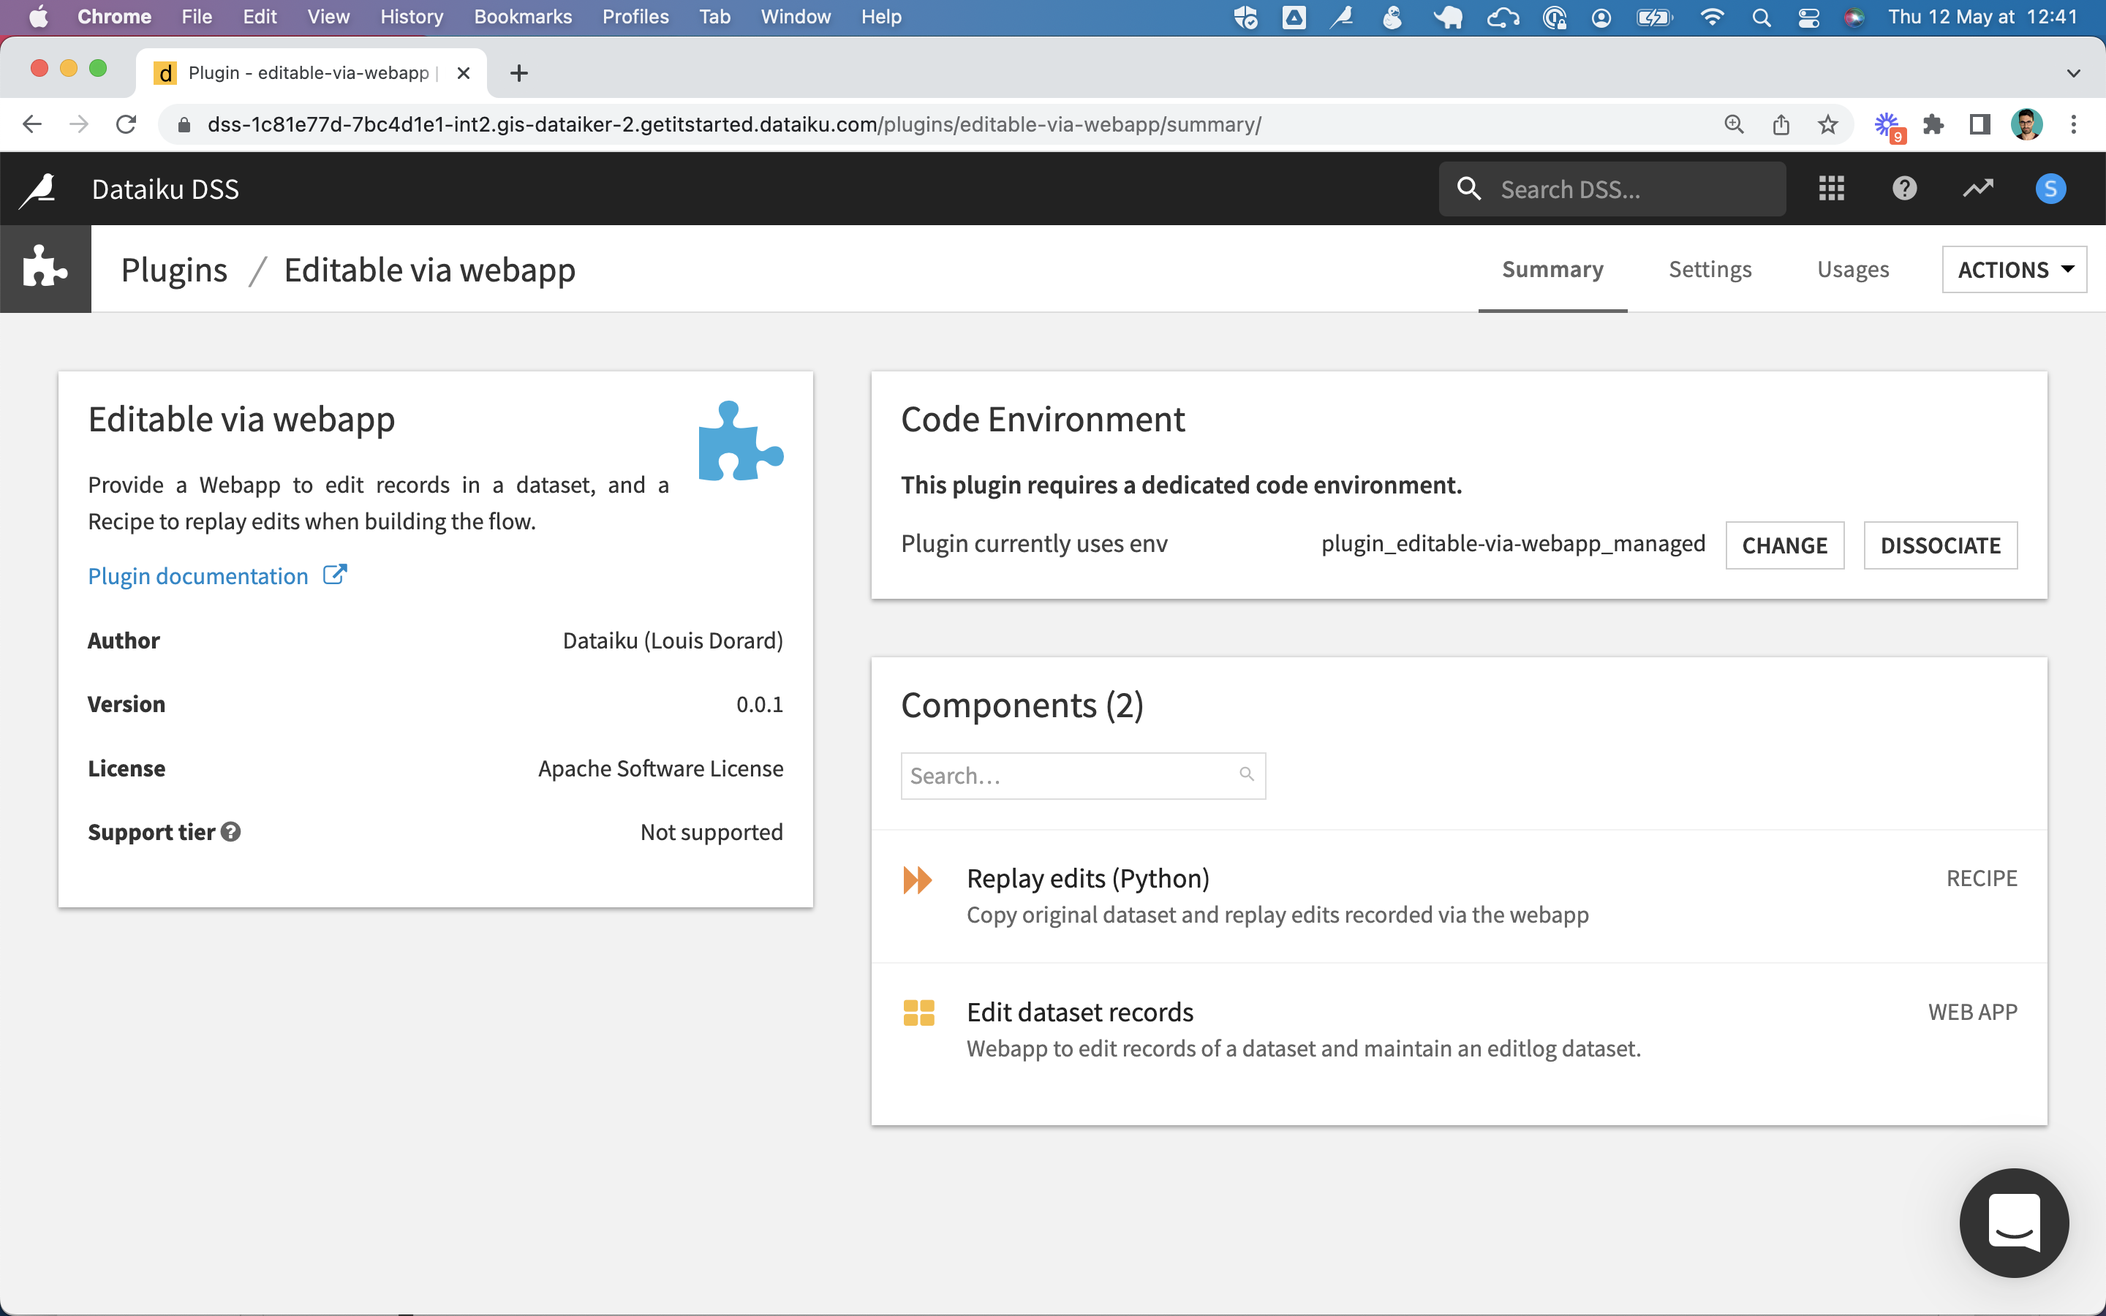
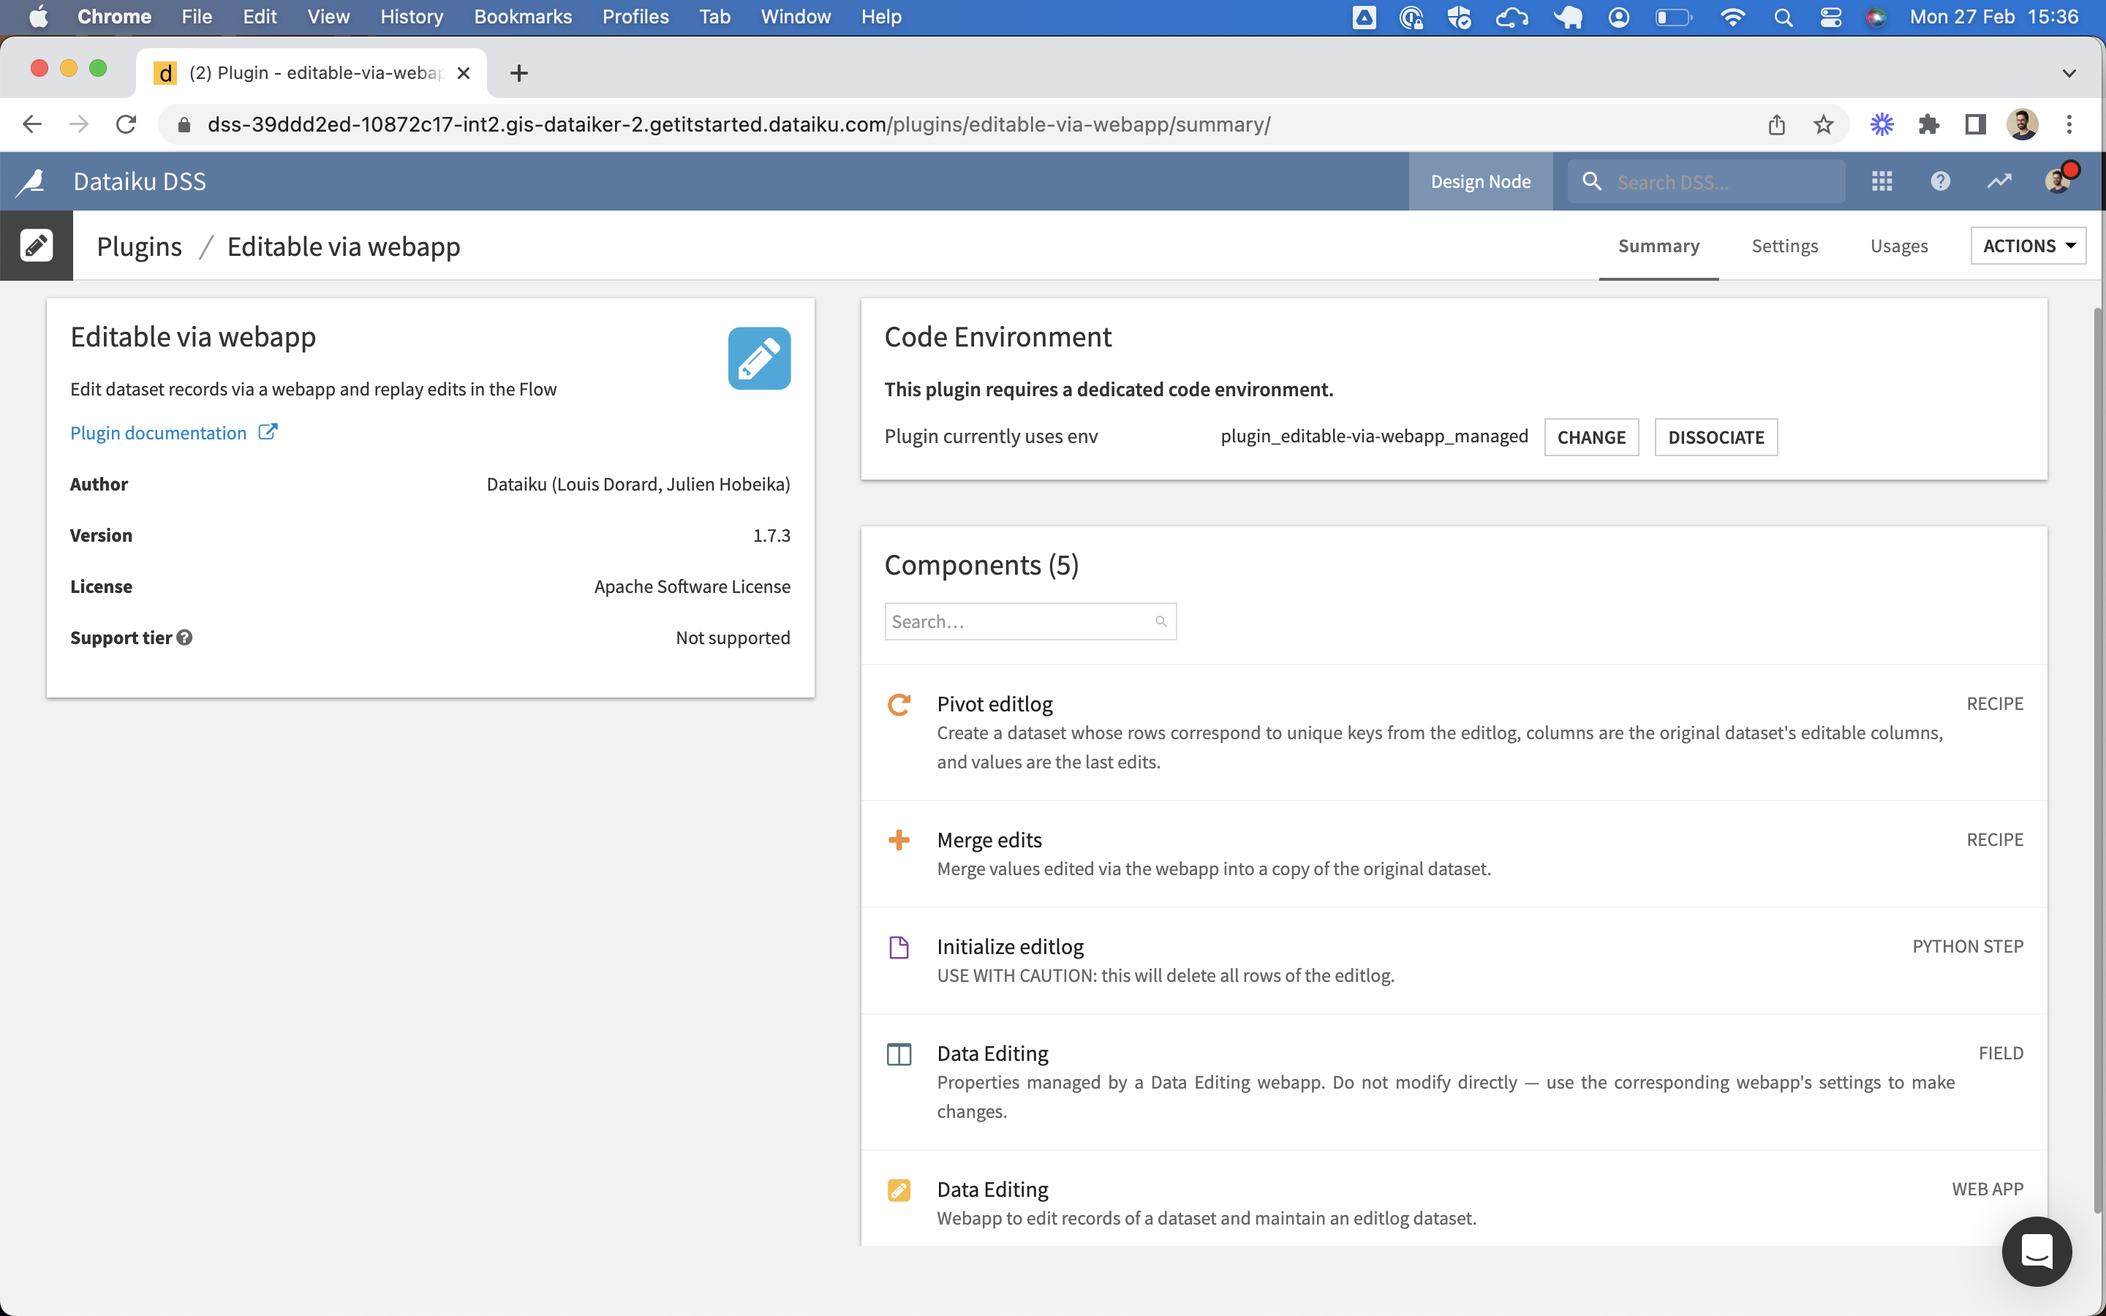
Improve documentation

diff --git a/docs/get-started.md b/docs/get-started.md
@@ -1,46 +1,26 @@
-# Getting started
+# Getting started | Plugin: Data Editing | Dataiku
 
-If you haven't, [install the _Editable via Webapp_ plugin](install-plugin) first.
+If you haven't, [install the plugin](install-plugin) first.
 
-## Create the webapp
+## Creating a Data Editing webapp
 
-* As a preliminary step, please review the schema of the dataset to edit.
+* Once you've identified the dataset to edit via a webapp, please review its schema as a first step.
   * The webapp uses column meanings to show data (or let you edit it) in the best way. If the meaning wasn't defined explicitly, the webapp uses the storage type instead.
   * If a column has missing values (which is typically the case for an editable column), make sure to use an appropriate storage type (e.g. not "integer"). When in doubt, use "string".
-* Go to Webapps, create New Visual Webapp, pick Data Editing.
+* Go to Webapps, create New Visual Webapp, pick Data Editing (this component is provided by the plugin).
   * ![](new_visual_webapp.png)
   * ![](new_visual_webapp_2.png)
 * The webapp settings interface has several sections...
-  * Under "Data" you can choose a dataset, list primary keys and editable columns (note that a column can't be both). ![](data_editing_webapp_params_full.png)
+  * Under "Data" you can choose a dataset, list primary keys and editable columns (note that a column can't be both). ![](data_editing_webapp_params_1.png) ![](data_editing_webapp_params_2.png)
   * The "Linked Records" section allows to specify editable columns whose values correspond to primary key values of another dataset.
   * In the "Layout" section you can choose to freeze editable columns to the right-hand side (which is useful when there are many columns), and to group rows by one or more columns.
   * Additional settings can be provided via the ["editschema" in JSON](editschema).
-
-## Start the webapp
-
-Here is an example of what a data editing webapp would look like:
+* You can now start the webapp backend. Behind the scenes, webapp settings such as primary keys and editable columns will be copied into the corresponding _Data Editing_ fields of the chosen dataset (custom fields provided by the plugin).
+* Here is an example of what a data editing webapp would look like:
 
 ![](webapp.png)
 
-Here are the datasets that the webapp backend creates automatically upon starting up, if they don't already exist:
-
-![](new_datasets.png)
-
- 1. **_editlog_** is the raw record of all edit events captured by the webapp. The schema is always the same. Here is an example: ![](editlog.png)
- 2. **_editlog\_pivoted_** is the output of the _pivot-editlog_ recipe and the user-friendly view of edits. In the previous example: ![](editlog_pivoted.png)
-     * Its schema is a subset of the original dataset's: it doesn't have columns that are display-only, but it has the same key columns and the same editable columns.
-     * You can think of it as...
-       * A "diff" between edited and original data.
-       * A dataset of overrides to apply to the original dataset.
-       * The result of "replaying" edit events stored in the log: we only see the last edited values.
-       
- 3. **_edited_** is the output of the _merge-edits_ recipe that feeds from the original dataset and the _editlog\_pivoted_. It corresponds to the edited data that you are seeing via the webapp; however, it is not in sync with the webapp: it's up to you to decide when to build it in the Flow.
-
-These datasets are created on the same connection as the original dataset. For edits to be recorded by the webapp, this has to be a write connection. If that's not the case, you can change the connection of these datasets as soon as they've been added to the Flow.
-
-## Use the webapp to make some edits
-
-Edits made via the webapp will instantly add rows to the _editlog_.
+## Making edits
 
 Data table features:
 
@@ -52,13 +32,45 @@ Data table features:
 * Right-clicking on the column name will show a menu with an option to hide the column, and an option to group rows according to the column's values.
 * All of this can be reset by clicking on the "Reset View" button in the bottom-left corner.
 
-## Use the new datasets in the Flow
+## Using edits in the Flow
 
-Depending on your use case, you would add recipes downstream of _editlog\_pivoted_ or of _edited_. For instance, you may only need access to edited rows, so to _editlog\_pivoted_, instead of _edited_ which also contains rows that weren't edited.
+### Where to find edits
+
+The webapp backend automatically creates 3 datasets upon starting up (if they don't already exist):
+
+![](new_datasets.png)
+
+Their names start with the original dataset's name. Let's review them by their suffix:
+
+ 1. **_editlog_** is the raw record of all edit events captured by the webapp. The schema of this dataset is fixed, whatever the original dataset. Here is an example: ![](editlog.png)
+ 2. **_editlog\_pivoted_** is the output of the _pivot-editlog_ recipe (provided by the plugin) and the user-friendly view of edits. In the previous example: ![](editlog_pivoted.png)
+    * Its schema is a subset of the original dataset's: it doesn't have columns that are display-only, but it has the same key columns and the same editable columns, plus a _last\_edit\_date_ column.
+    * Its rows are a subset of the original dataset's: it doesn't contain rows where no edits were made.
+    * You can think of it as...
+      * A "diff" between edited and original data.
+      * A dataset of overrides to apply to the original dataset.
+      * The result of "replaying" edit events stored in the log: we only see the last edited values.
+ 3. **_edited_** is the output of the _merge-edits_ recipe (provided by the plugin) that feeds from the original dataset and the _editlog\_pivoted_.
+    * It corresponds to the edited data that you are seeing via the webapp.
+    * However, it is not in sync with the webapp: it's up to you to decide when to build it in the Flow.
+    * It contains the same number of rows as in the original dataset. For any given cell identified by its column and primary key values, if a non-empty value is found in _editlog\_pivoted_, this value is used instead of the original one.
+    * Note that, as a result of the above, it is impossible to empty a non-empty cell with the plugin’s visual webapp and recipes. This is because empty values in _editlog\_pivoted_ are ignored.
+
+These datasets are created on the same connection as the original dataset. For edits to be recorded by the webapp, this has to be a write connection. If that's not the case, you can change the connection of these datasets as soon as they've been added to the Flow.
+
+### Interactions between the webapp and the Flow
+
+Edits made via the webapp instantly add rows to the _editlog_.
+
+What you see in the webapp is the **original dataset with overrides** coming from the editlog. The webapp is based on the same code as the _pivot-editlog_ and _merge-edits_ recipes.
+
+### Leveraging edits for analytics
+
+Depending on your use case, you would add recipes downstream of _editlog\_pivoted_ or of _edited_. For instance, you may only need access to edited rows, found in _editlog\_pivoted_, instead of _edited_ which also contains rows that weren't edited. This is the case in our [sample project](sample-project-join-companies).
 
 You decide when to build the datasets downstream of the _editlog_ (including _editlog\_pivoted_ and _edited_).
 
 ## Next
 
-* [Going further](going-further)
+* [Going further](going-further): Resetting edits on a design node, Deploying to production (automation node), Feedback loops, FAQ.
 * [Sample project: Join Companies](sample-project-join-companies)

diff --git a/docs/sample-project-join-companies.md b/docs/sample-project-join-companies.md
@@ -1,16 +1,22 @@
 # Sample project: Join Companies
 
-_In this article we introduce the Join Companies use case via a demo and we explain how to replicate with our sample project. We also explain how the project works behind the scenes, the steps to build it from scratch, then we discuss deployment and lifecycle._
+In this entity reconciliation project, 2 datasets representing the same companies need to be merged. We manually review and correct matches between company entities whose names differ.
 
-## Introduction
+We start this article with a demonstration and we explain how to replicate it using an export of our Dataiku project. We also explain how the project works behind the scenes, the steps to build it from scratch, then we discuss deployment and lifecycle._
 
-This project demonstrates a case of feedback loop, where the data to review/edit in the webapp depends on previous edits. It also demonstrates usage of linked records and lookup columns.
+## Demonstration
+
+This project demonstrates:
+
+* a case of feedback loop, where the data to review/edit in the webapp depends on previous edits
+* usage of linked records and lookup columns.
 
 <iframe src="https://www.loom.com/embed/7b79e45e755544f8baf1ff3ed1bf60ee" frameborder="0" webkitallowfullscreen="" mozallowfullscreen="" allowfullscreen="" style="height: 400px; width: 600px"></iframe>
 
 How to replicate:
 
-* [Download project bundle](dss-bundle-JOIN_COMPANIES_SIMPLE-webapp-based.zip). Note: the project uses the managed Amazon S3 data connection provided on Dataiku Online — you may have to remap to one of your own data connections.
+* [Install the Data Editing plugin](install-plugin).
+* [Download project bundle](dss-bundle-JOIN_COMPANIES_SIMPLE-webapp-based.zip) and import on your instance. Note: the project uses the managed Amazon S3 data connection provided on Dataiku Online — you may have to remap to one of your own data connections.
 * Build dataset `companies_joined_prepared_edited` (recursive build).
 * Go to Webapps and start "Edit Matches Uncertain".
 * Go to Dashboards and to "Company Matches":
@@ -33,6 +39,8 @@ This section presents how the project works in its current state. Alternatively,
 As you can see in the datasets above, comparing company names can work in some cases but not all (e.g. "TheFacebook" and "Meta"). We set up a data editing webapp to have a human assign matches that the machine couldn't find.
 
 <iframe src="https://www.loom.com/embed/d28df84ca26b49a2a25f802c92cfbb5e" frameborder="0" webkitallowfullscreen="" mozallowfullscreen="" allowfullscreen="" style="height: 400px; width: 600px"></iframe>
+
+The special role of the `reviewed` column, which we saw in the 1st video when clicking on the "Update" button, isn't defined in the webapp settings but in the Flow that generates the `matches_uncertain` dataset.
 
 ### Flow
 
@@ -109,7 +117,7 @@ Reviewing could be made in a spreadsheet program. It involves:
 
 ### Project deployment and update in production
 
-Once the project has been built and successfully tested on a Design node, you would deploy it to an Automation node.
+Once the project has been built and successfully tested on a Design node, you would deploy it to an Automation node. This requires proper initialization of the editlog on the latter, as shown in the video below.
 
 <iframe src="https://www.loom.com/embed/e47c5d09871741c48062e3547108bb39" frameborder="0" webkitallowfullscreen="" mozallowfullscreen="" allowfullscreen="" style="height: 400px; width: 600px"></iframe>
 

diff --git a/docs/index.md b/docs/index.md
@@ -4,15 +4,15 @@ No-code webapps for “human in the loop” analytics & AI.
 
 <iframe src="https://www.loom.com/embed/7b79e45e755544f8baf1ff3ed1bf60ee" frameborder="0" webkitallowfullscreen="" mozallowfullscreen="" allowfullscreen="" style="height: 400px; width: 600px"></iframe>
 
-Check out our library of [demo videos](https://loom.com/share/folder/b5e96d5672da4a58883b3b05a35445fa): webapp setup, integrating edits into the flow, feedback loop, deployment in production.
+Check out our library of [demo videos](https://loom.com/share/folder/b5e96d5672da4a58883b3b05a35445fa): webapp setup, integrating edits into the Flow, feedback loops, usage in Design vs Automation.
 
 ## Use cases
 
-* Entity reconciliation
-* Forecast override
-* AI feedback loop
-* Data correctioning
-* Business rules exception handling
+* **Entity reconciliation**: 2 or more datasets represent the same entities and need to be merged. However, common properties of a given entity may have different values from one dataset to the other. See our ["join companies" sample project](sample-project-join-companies) where we manually review and correct matches between company entities whose names differ.
+* **Forecast override**: machine-made sales forecasts need to be adjusted by a human, to take into account contextual information that wasn't available to the machine, or to correct low-confidence predictions.
+* **AI feedback loop**: human feedback on AI-powered predictions is ingested back into the AI's training data.
+* **Business rules exception handling**: manually filling in missing values in the output of classification rules.
+* **Data correctioning**.
 
 ## Features
 
@@ -26,7 +26,7 @@ Check out our library of [demo videos](https://loom.com/share/folder/b5e96d5672d
 ## Contents
 
 * [Installation](install-plugin): Dataiku v9 and above
-* [Getting started](get-started): Key Concepts
+* [Getting started](get-started): Overview of plugin components and key concepts
 * [Going further](going-further): Deployment, FAQ
 * [Sample project: join companies](sample-project-join-companies)
 * [Sample project: ML feedback loop](sample-project-ml-feedback-loop)

diff --git a/docs/install-plugin.md b/docs/install-plugin.md
@@ -1,22 +1,27 @@
-# Install the _Editable via Webapp_ plugin
+# Installation | Plugin: Data Editing | Dataiku
 
-Requirements:
+## Requirements
 
 * Dataiku 9 or more recent
-* Ability to install plugins on your Dataiku instance and to create associated code env (Dash libraries)
+* Ability to install plugins on your Dataiku instance and to create an associated code env based on Python 3
 * For Dataiku Online:
   * Make sure the "code env" feature is activated; if it's not, use the contents of the requirements file to create your first environment
   * Enable maintenance access so that someone can install the plugin for you
 
-How to install:
+## How to install
 
+* Contact Louis Dorard at Dataiku to get access to the plugin
 * Upload the ZIP file that contains the plugin, to your Dataiku instance
   * ![](add_plugin_upload.png)
   * ![](add_plugin_select_zip.png)
 * Create the code environment for this plugin
-  * ![](add_plugin_creating_code_env.png)
+  * Select the types of containers you plan to use as backend for data editing webapps or for running recipes provided by the plugin. The easiest is to choose All. ![](add_plugin_creating_code_env.png)
   * ![](add_plugin_creating_code_env_2.png)
   * ![](add_plugin_creating_code_env_done.png)
   * ![](add_plugin_creating_code_env_done_2.png)
   * ![](add_plugin_done.png)
 * The plugin is installed! ![](plugin_installed.png)
+
+## Next
+
+Check out the guide to [Get started](get-started) for an introduction to the plugin's components and how to use them.

diff --git a/docs/going-further.md b/docs/going-further.md
@@ -2,9 +2,23 @@
 
 ## Adding the webapp to a Dashboard
 
-The best way to make this webapp accessible to end-users is by publishing it to a Dashboard. From there you can add "tiles", such as a Text one with instructions, or a Scenario tile, and adjust the layout. The Scenario tile is displayed as a button to run a chosen scenario; this is a great way to let the end-user run computations that take edits into account.
+The best way to make this webapp accessible to end-users is by publishing it to a Dashboard (from the webapp view, click on the Actions button of the menu at the top, on the right-hand side).
+
+![](publish_dashboard.png)
+
+You can then add other "tiles" to your Dashboard, such as a Text tile with instructions on how to use the webapp, or a Scenario tile, and adjust the layout.
 
 ![](dashboard_edit.png)
+
+The Scenario tile is displayed as a button to run a chosen scenario. This is a great way to let the end-user run computations that take edits into account. An example is provided in our [sample project: join companies](sample-project-join-companies).
+
+## Resetting edits on a design node
+
+Create and run a scenario with an "Initialize editlog" Step. This type of scenario step is provided by the plugin and can be found toward the end of the list of available steps.
+
+![](scenario_initialize_editlog.png)
+
+You can also add a step to run a scenario dedicated to building datasets downstream of the editlog.
 
 ## Deploying to production (automation node)
 

diff --git a/docs/editschema.md b/docs/editschema.md
@@ -23,5 +23,6 @@ List of available fields to describe each item of the editschema:
 
 * `name`: name of a column of the original dataset.
 * `type` allows to override the column's type inferred from the original dataset's schema, or to refine it:
-  * You can specify a "boolean_tick" type if you want the formatting and editing of boolean values to use only 2 states: `true` represented by a green tick icon, and no icon at all otherwise.
-  * Note: the default behavior of the "boolean" type uses 3 states: `true` represented by a green tick icon, `false` represented by a red cross, and empty.
+  * You can specify a `boolean_tick` type if you want the formatting and editing of boolean values to use only 2 states: `true` represented by a green tick icon, and no icon at all otherwise.
+    * Note: the default behavior of the "boolean" type uses 3 states: `true` represented by a green tick icon, `false` represented by a red cross, and empty.
+  * Currently there is no other supported type.
